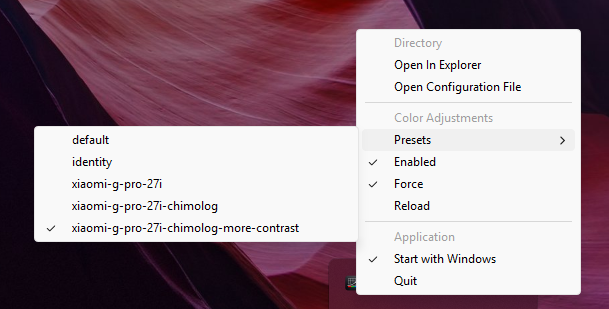
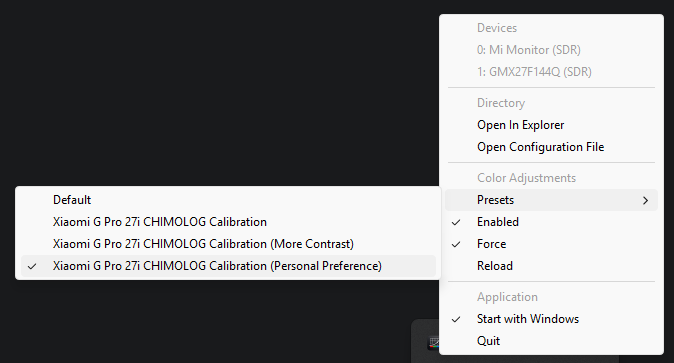
chore: Improve readme.

diff --git a/README.md b/README.md
@@ -46,34 +46,25 @@ and a custom LUT when you are in HDR:
 ]
 ```
 
+### Xiaomi G Pro 27i Users
 This project also includes a default Xiaomi G Pro 27i HDR EOTF curve correction (because this is what motivated me to 
-create this tool). You can use it by simply starting the application and selecting the desired preset. 
-This is how the configuration file looks like:
-```json
-[
-  {
-    "device": 0,
-    "mode": "sdr",
-    "lut": "Xiaomi G Pro 27i SDR (D65 Gamma22)"
-  },
-  {
-    "device": 0,
-    "mode": "hdr",
-    "lut": "Xiaomi G Pro 27i HDR (D65 PQ)"
-  }
-]
-```
+create this tool). You can use it by simply starting the application and selecting the desired preset. If the monitor
+device id is not 0, click on the "Open Configuration File" button and manually edit the device number.
 
 ![tray-screenshot.png](images/tray-screenshot.png)
 
-OBS1: If you do not specify file extension or a path like string, the tool will look for the LUTs in the `luts/` folder.
-<br>OBS2: Replace `"device": 0` with the device number of your monitor,
-<br>OBS3: The `lut` field accepts raw Windows `.lut` files and `.cube` files. `LUT_1D_SIZE` `.cube` files are converted
-directly into a Windows gamma ramp. `LUT_3D_SIZE` `.cube` files are approximated by sampling the grayscale axis because
-Windows `SetDeviceGammaRamp` cannot apply a true 3D LUT.
-<br>OBS4: The optional `adjust` block is applied after loading the LUT or `.cube`, before sending the gamma ramp to
-Windows. Omitted values default to neutral values. The order is brightness, contrast around `0.5`, gamma correction,
-then per-channel gain and offset.
+Xiaomi Presets:
+- Xiaomi G Pro 27i CHIMOLOG Calibration:
+  - Apply Native -> SRGB color conversion for SDR usage;
+  - Apply EOTF correction for HDR usage;
+- Xiaomi G Pro 27i CHIMOLOG Calibration (More Contrast):
+  - Same as above;
+  - Boost contrast;
+- Xiaomi G Pro 27i CHIMOLOG Calibration (Personal Preference):
+  - Same as above;
+  - Decrease red gain on SDR mode;
+  - Slightly increase red gain on HDR mode;
+  - This one is personal preference and may not apply to your config.
 
 ## Running
 After having your project build and configuration in place, run the executable. It will start running in the background